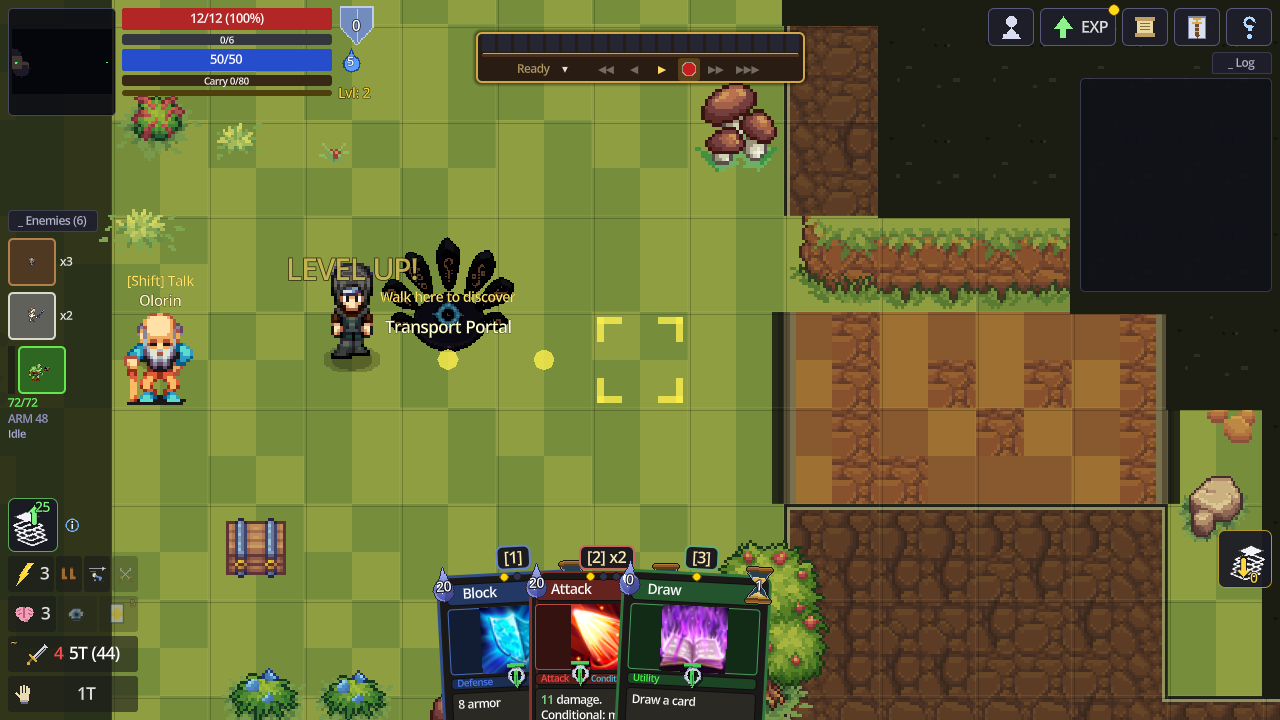
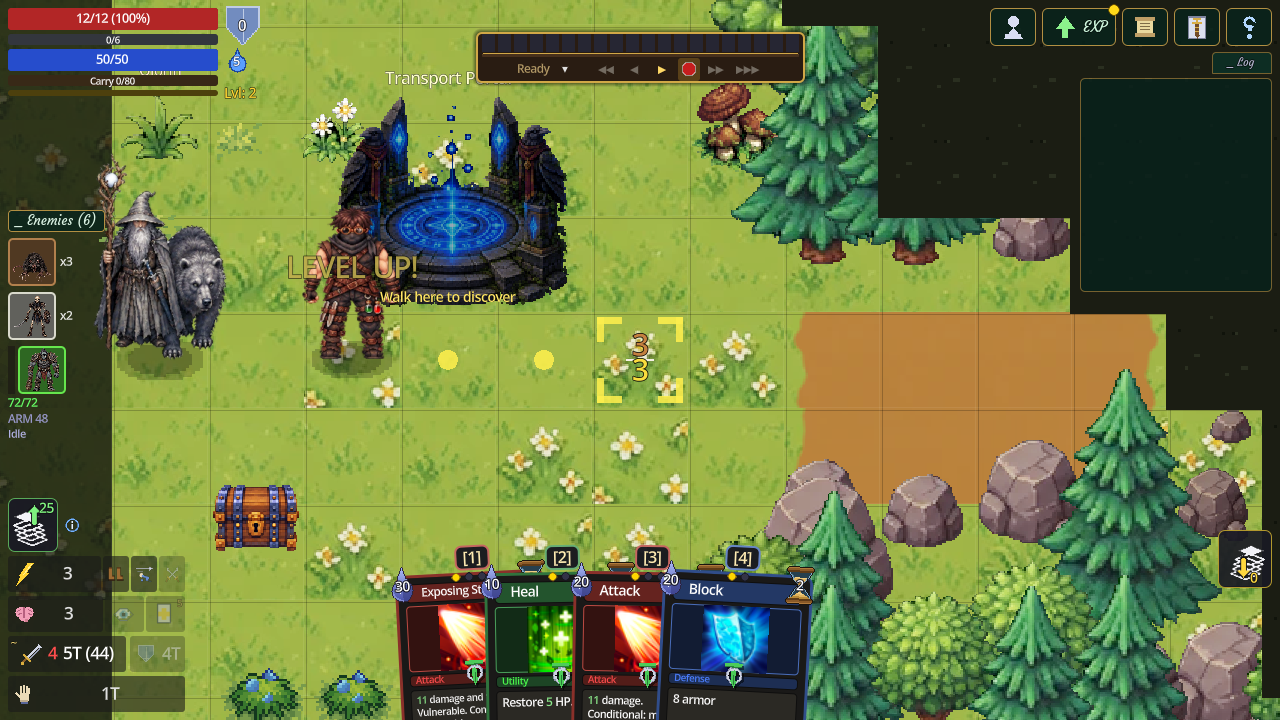
README: fresh screenshots and a gallery of the realms
New frames of the battle views and the level-up, the designer's spells
(fireball, phoenix, lightning) in place of the old attack/spell frames
that caught no motion, and a gallery of the realms in their new art: the
five worlds, the Greenwood, the town and the Boneyard. The intro now says
most of the world is the designer's own boards.

Claude-Session: https://claude.ai/code/session_012Y7A5C94YdKvjr5EFVon5m

diff --git a/README.md b/README.md
@@ -8,7 +8,7 @@
 
 The battlefield is an elevation-aware grid seen from a fixed top-down view — north is always up, every texel lands on whole screen pixels, and the camera zooms by texel scale from close-up character work to a full tactical overview. Along the bottom: your hand of cards; top-center: the tempo bar that drives everything; left rail: the live enemy tracker.
 
-The heroes, nearly every enemy and boss, the summons and the townsfolk are the designer's own hand-drawn art — four-direction pose boards cut into game sprites (`tools/cut_pose_boards.py`) and drawn smooth, never blurred or recompressed. The world itself (tiles, props, buildings) comes from the purchased art packs listed in [`docs/ASSET_PACKS.md`](docs/ASSET_PACKS.md).
+The heroes, nearly every enemy and boss, the summons and the townsfolk are the designer's own hand-drawn art — four-direction pose boards cut into game sprites (`tools/cut_pose_boards.py`) and drawn smooth, never blurred or recompressed. So, now, is most of the world: each realm's ground, cliffs, trees, rocks, ruins and landmarks are the designer's boards, cut into tiles and props (`tools/cut_ground_boards.py`, `tools/cut_prop_boards.py`). What still comes from the purchased art packs is listed in [`docs/ASSET_PACKS.md`](docs/ASSET_PACKS.md).
 
 | Default battle view | Closer |
 |---|---|
@@ -20,11 +20,35 @@ The heroes, nearly every enemy and boss, the summons and the townsfolk are the d
 
 Every card and action plays a motion and an effect — the signature spells (Fireball, the ice spike, lightning, the Phoenix, searing fire) are the designer's own animations:
 
-| Basic attack mid-swing | Gathering a fireball | Level up (mist swirl + full restore) |
+| Fireball | The Phoenix | Lightning |
 |---|---|---|
-| ![Attack](docs/screenshots/anim_attack.png) | ![Spell cast](docs/screenshots/anim_spell.png) | ![Level up](docs/screenshots/anim_level_up.png) |
+| ![Fireball](docs/screenshots/fx_fireball.png) | ![Phoenix](docs/screenshots/fx_phoenix.png) | ![Lightning](docs/screenshots/fx_lightning.png) |
 
-*(All shots are real frames from the running game — regenerate them any time with `tests/capture_screenshots.gd`.)*
+| Level up (mist swirl + full restore) |
+|---|
+| ![Level up](docs/screenshots/anim_level_up.png) |
+
+### The realms
+
+One character, one journey across the realms — each with its own ground, growth, ruins and foes:
+
+| The Verdant Frontier (World 1) | The Amber Wastes (World 2) |
+|---|---|
+| ![Verdant Frontier](docs/screenshots/world_verdant_frontier.png) | ![Amber Wastes](docs/screenshots/world_amber_wastes.png) |
+
+| Frostreach (World 3) | Emberfall (World 4) |
+|---|---|
+| ![Frostreach](docs/screenshots/world_frostreach.png) | ![Emberfall](docs/screenshots/world_emberfall.png) |
+
+| The Umbral Expanse (World 5) | The Greenwood |
+|---|---|
+| ![Umbral Expanse](docs/screenshots/world_umbral_expanse.png) | ![Greenwood](docs/screenshots/place_greenwood.png) |
+
+| The town — home base | The Boneyard (boss room) |
+|---|---|
+| ![Town](docs/screenshots/place_town.png) | ![Boneyard](docs/screenshots/place_boneyard.png) |
+
+*(All shots are real frames from the running game — the battle views and level-up with `tests/capture_screenshots.gd`, the spells with `tests/_capture_fx.gd`, the town with `tests/_capture_town.gd`.)*
 
 Built in **Godot 4.6**.
 
